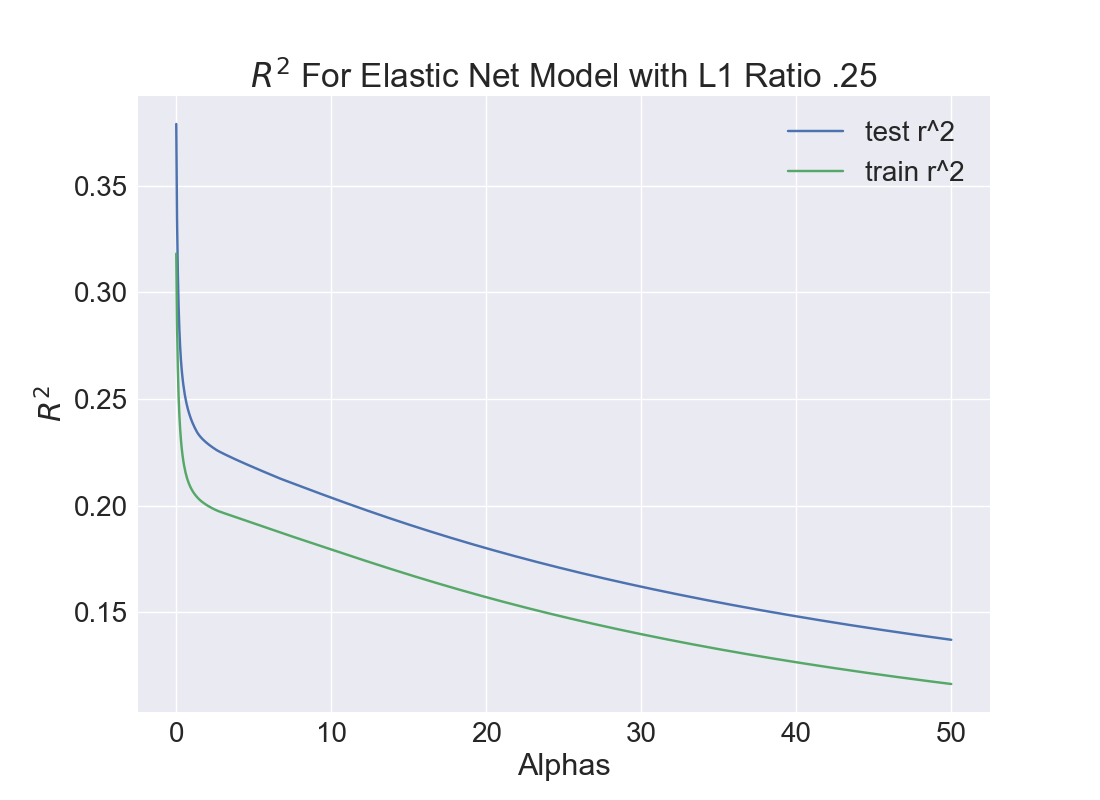
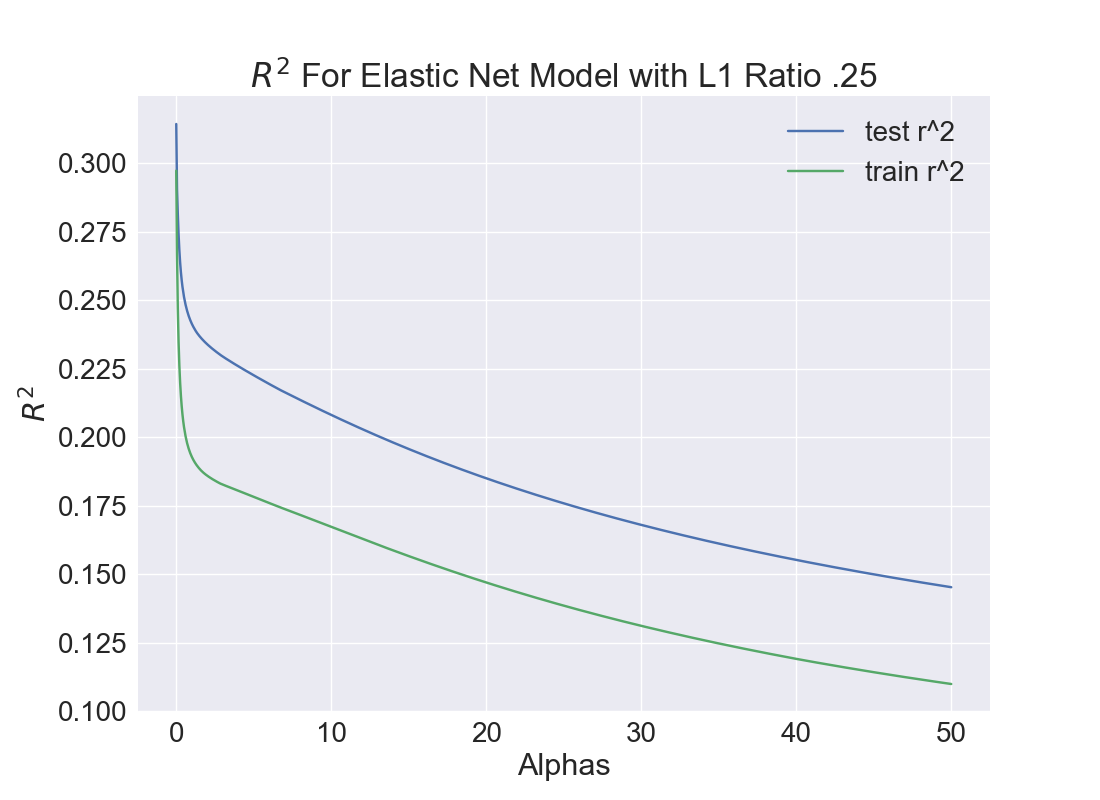
updates

diff --git a/src/ridge_and_elastic_final_eval.py b/src/ridge_and_elastic_final_eval.py
@@ -1,0 +1,52 @@
+import pandas as pd
+import matplotlib.pyplot as plt
+from sklearn.preprocessing import Imputer
+import numpy as np
+from sklearn.preprocessing import StandardScaler
+import seaborn as sns
+sns.set(color_codes=True)
+from sklearn.model_selection import train_test_split, cross_val_score, KFold, cross_validate
+from sklearn.linear_model import LinearRegression, Lasso, Ridge, ElasticNet
+from sklearn.metrics import r2_score, mean_squared_error
+from sklearn.feature_selection import f_regression, mutual_info_regression, SelectKBest
+from statsmodels.stats.outliers_influence import variance_inflation_factor
+from statsmodels.tools.tools import add_constant
+from clean_data import DataPipeline
+import statsmodels.api as sm
+
+#Import Training Data
+training_data = pd.read_csv('~/Galvanize/analytics-capstone/data/spotify_data.csv')
+training_data = DataPipeline(training_data)
+train_X = training_data.features
+train_X = sm.add_constant(train_X)
+train_y = training_data.target
+
+#Import Unseen Playlist Data
+unseen_data = pd.read_csv('~/Galvanize/analytics-capstone/data/unseen_data.csv')
+unseen_data = DataPipeline(unseen_data)
+test_X = unseen_data.features
+test_X = sm.add_constant(test_X)
+test_y = unseen_data.target
+
+#Standardize Data
+scalar = StandardScaler()
+X_train_std = scalar.fit_transform(train_X)
+X_test_std = scalar.fit_transform(test_X)
+
+#Train a Ridge Model
+ridge_model = Ridge()
+ridge_model.fit(X_train_std, train_y)
+ridge_predictions = ridge_model.predict(X_test_std)
+print(r2_score(test_y, ridge_predictions))
+print(np.sqrt(mean_squared_error(test_y, ridge_predictions)))
+plt.scatter(ridge_predictions, test_y)
+plt.show()
+
+#Train an OLS Model
+ols_model = LinearRegression()
+ols_model.fit(X_train_std, train_y)
+ols_predictions = ridge_model.predict(X_test_std)
+print(r2_score(test_y, ols_predictions))
+print(np.sqrt(mean_squared_error(test_y, ols_predictions)))
+plt.scatter(ols_predictions, test_y)
+plt.show()

diff --git a/src/pull_data_from_spotify.py b/src/pull_data_from_spotify.py
@@ -79,19 +79,12 @@ client_credentials_manager = SpotifyClientCredentials(client_id=os.getenv('SPOTI
 sp = spotipy.Spotify(client_credentials_manager=client_credentials_manager)
 sp.trace=False
 
-playlists_to_scrape = [("Pitchfork", "spotify:user:pitchforkmedia:playlist:31mWsJSygA2Vx1FyyhXFS4"),
-                        ("Spotify", "spotify:user:spotify:playlist:37i9dQZF1DX4o1oenSJRJd"),
-                        ("New York Times Magazine", "spotify:user:nytmag:playlist:1fIoLrK0POksamXuvzbTee"),
-                        ("Spotify", "spotify:user:spotify:playlist:37i9dQZF1DWYnwbYQ5HnZU"),
-                        ("Spotifnation", "spotify:user:7jt4w8i9zjsn36sngapjop302:playlist:291drwQ10IlkH0hf1TJcFk"),
-                        ("Caribou", "spotify:user:cariboutheband:playlist:4Dg0J0ICj9kKTGDyFu0Cv4"),
-                        ("Spotify", "spotify:user:spotify:playlist:37i9dQZF1DXcOFePJj4Rgb"),
-                        ("touchepurley", "spotify:user:touchepurley:playlist:5cJXS1TnQhldZyI4ObwR7l"),
-                        ("Leonard Partoza Balang", "spotify:user:leonardbalang:playlist:0M3Xy7HCXJwPUbQKdOGt51"),
-                        ("whitneypenn", "spotify:user:whitneypenn:playlist:7rpjDLKSDl3eXxUD1rAuMI")]
+playlists_to_scrape = [("whitneypenn", "spotify:user:whitneypenn:playlist:44sRyzuMuFwNUGq6otEvGG")]
 
 a = scrape_playlist(playlists_to_scrape[0])
-for i in range(1, len(playlists_to_scrape)):
-    a = a.append(scrape_playlist(playlists_to_scrape[i]))
+if len(playlists_to_scrape) > 0:
+    for i in range(1, len(playlists_to_scrape)):
+        a = a.append(scrape_playlist(playlists_to_scrape[i]))
 
-a.to_csv('~/Galvanize/analytics-capstone/data/spotify_data_2.csv')
+
+a.to_csv('~/Galvanize/analytics-capstone/data/unseen_data.csv')

diff --git a/src/compare_ridge_and_elastic_net.py b/src/compare_ridge_and_elastic_net.py
@@ -101,11 +101,11 @@ ridge_a_range = np.linspace(.01, 1000, 100)
 X_train, X_test, y_train, y_test = train_test_split(X, y, test_size=0.25)
 
 elastic_test_r2, elastic_train_r2, elastic_test_rmse, elastic_train_rmse = compare_elastic_models_over_alphas(elastic_a_range, X_train, y_train)
-#print_stats("Elastic", elastic_test_r2, elastic_train_r2, elastic_test_rmse, elastic_train_rmse )
+print_stats("Elastic", elastic_test_r2, elastic_train_r2, elastic_test_rmse, elastic_train_rmse )
 plot_R2_alpha_comparisons(elastic_a_range, elastic_test_r2, elastic_train_r2, 'Elastic Net Model with L1 Ratio .25')
 plot_RMSE_alpha_comparisons(elastic_a_range, elastic_test_rmse, elastic_train_rmse, 'Elastic Net Model with L1 Ratio .25')
 
 ridge_test_r2, ridge_train_r2, ridge_test_rmse, ridge_train_rmse = compare_ridge_over_alphas(ridge_a_range, X_train, y_train)
-#print_stats("Ridge", ridge_test_r2, ridge_train_r2, ridge_test_rmse, ridge_train_rmse)
+print_stats("Ridge", ridge_test_r2, ridge_train_r2, ridge_test_rmse, ridge_train_rmse)
 plot_R2_alpha_comparisons(ridge_a_range, ridge_test_r2, ridge_train_r2, 'Ridge Model')
 plot_RMSE_alpha_comparisons(ridge_a_range, ridge_test_rmse, ridge_train_rmse, 'Ridge Model')
